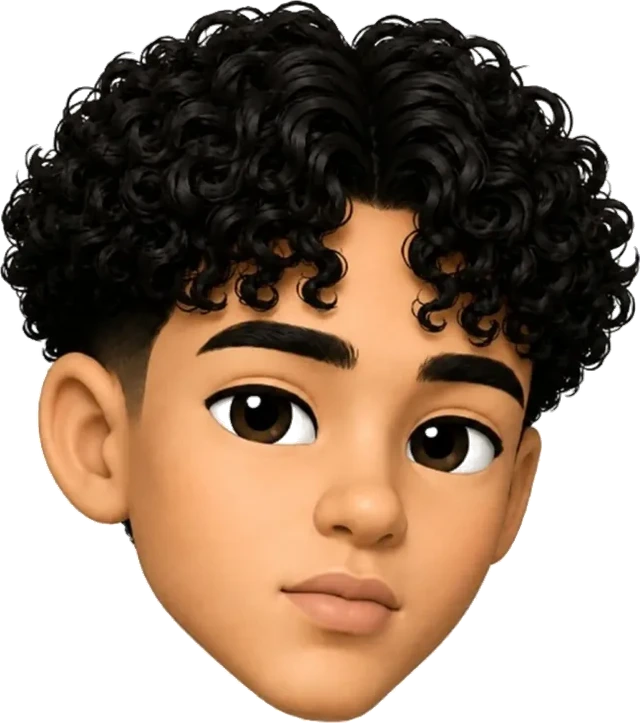
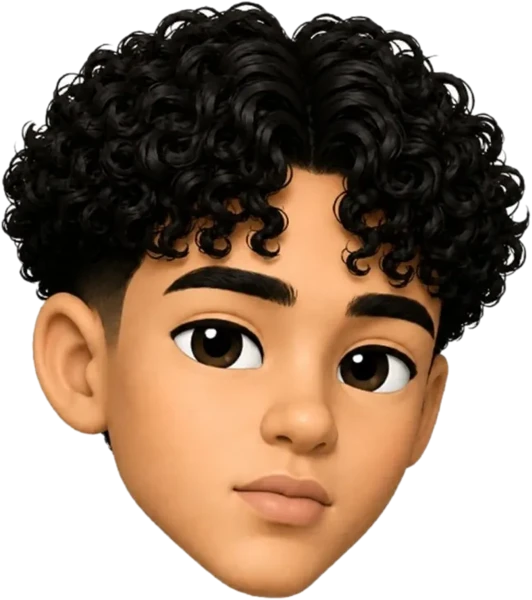
Polish: a quieter section rail, cleaner pipes, his face without a frame in the Venn
- Rail: no dash lines; the current section is inked with the pipes' orange
  ball and the rail steps aside once the footer card arrives, instead of
  running over it.
- Pipes: the right pipe drops the collars that joined onto nothing, and both
  now run on into the footer card instead of fading out under its white wash.
- Venn: the centre is a cutout of his face (public/design/jawad-cut.webp),
  not the face in a white square tile.
- Projects: the Ignaru shot anchors to its left so the headline is not cut.

diff --git a/src/app/globals.css b/src/app/globals.css
@@ -700,44 +700,45 @@ html.has-cursor * { cursor: none !important; }
 /* ── The section rail ─────────────────────────────────────────────────────
    Wide screens leave two hundred-odd pixels of empty ground either side of
    the column. This puts the page's own table of contents in the left of it:
-   a tick per section that lengthens and inks up as you reach it, so the
-   margin says where you are rather than sitting there being empty.
+   the section names in grey, the one you are in inked up with the pipes'
+   orange ball beside it. No rules or ticks: the names line up on their own.
 
    It is anchored to the column rather than to the viewport edge, so the gap
    between rail and text is the same at 1280 as at 2560 and the reading
    column stays the thing the eye lands on. */
+.rail { transition: opacity 0.35s var(--ease), translate 0.35s var(--ease); }
+.rail[data-away] { opacity: 0; translate: -8px 0; pointer-events: none; }
 .rail-item {
-  display: flex;
+  position: relative;
+  display: block;
   width: fit-content;
-  align-items: center;
-  gap: 0.65rem;
-  padding: 0.28rem 0;
-  color: var(--muted-foreground);
+  padding: 0.3rem 0 0.3rem 1.1rem;
+  color: color-mix(in srgb, var(--ink) 38%, transparent);
   font-size: 0.75rem;
+  font-weight: 500;
   line-height: 1.2;
+  letter-spacing: -0.005em;
   text-decoration: none;
-  transition: color 0.25s var(--ease);
+  transition: color 0.25s var(--ease), translate 0.3s var(--ease);
 }
-.rail-tick {
-  flex: none;
-  width: 14px;
-  height: 1px;
-  background: currentColor;
-  transition: width 0.3s var(--ease);
+.rail-ball {
+  position: absolute;
+  left: 0;
+  top: 50%;
+  width: 8px;
+  height: 8px;
+  margin-top: -4px;
+  opacity: 0;
+  scale: 0.4;
+  transition: opacity 0.25s var(--ease), scale 0.35s var(--ease);
 }
-.rail-item:hover,
-.rail-item[aria-current="true"] {
-  color: var(--foreground);
-}
-.rail-item[aria-current="true"] .rail-tick { width: 30px; }
-.rail-item:focus-visible {
-  outline: none;
-  color: var(--foreground);
-}
-.rail-item:focus-visible .rail-tick { width: 30px; }
+.rail-item:hover { color: var(--ink); }
+.rail-item[aria-current="true"] { color: var(--ink); font-weight: 700; translate: 2px 0; }
+.rail-item[aria-current="true"] .rail-ball { opacity: 1; scale: 1; }
+.rail-item:focus-visible { outline: none; color: var(--ink); text-decoration: underline; text-underline-offset: 3px; }
 
 @media (prefers-reduced-motion: reduce) {
-  .rail-item, .rail-tick { transition: none; }
+  .rail, .rail-item, .rail-ball { transition: none; }
 }
 
 /* ── Grid tables ──────────────────────────────────────────────────────────
@@ -1596,10 +1597,12 @@ body { font-family: var(--font); background: var(--paper); color: var(--ink); }
 .rp-hl-logo[style] { padding: 0; }
 
 /* ── The side pipes ── */
-.pipes { position: absolute; inset: 0; z-index: 1; pointer-events: none; overflow: hidden; }
+.pipes { position: absolute; inset: 0; z-index: 2; pointer-events: none; overflow: hidden; }
 main, .foot { position: relative; }
 .sec-obj, .else-sum .obj { position: relative; z-index: 2; }
 .foot-card { z-index: 3; }
+/* the footer's white fade sits under the pipes, so they run on into the card */
+.foot-field::before { z-index: 1; }
 .nv { z-index: 60; }
 
 .gp { --w: var(--gp-w, 0px); position: absolute; inset: 0; width: 100%; height: 100%; overflow: visible; pointer-events: none; filter: var(--ico-lift); }
@@ -1622,11 +1625,11 @@ main, .foot { position: relative; }
 .venn-disc { background: color-mix(in srgb, var(--ink) 4.5%, transparent); transition: background-color 0.3s var(--ease); }
 .venn-label { display: inline-flex; flex-direction: column; align-items: center; gap: 0.35rem; font-size: 12px; font-weight: 700; color: var(--ink); letter-spacing: -0.01em; }
 .venn-obj { width: 1.9rem; height: 1.9rem; }
-.venn-face { width: 4.5rem; height: 4.5rem; padding: 4px; border-radius: 20px; background: var(--paper); box-shadow: var(--rim), var(--lift); }
+.venn-face { width: 4.75rem; height: auto; filter: drop-shadow(0 6px 10px rgb(0 0 0 / 0.16)) drop-shadow(0 1px 2px rgb(0 0 0 / 0.12)); }
 @media (min-width: 640px) {
   .venn-label { font-size: 16px; }
   .venn-obj { width: 2.5rem; height: 2.5rem; }
-  .venn-face { width: 6.5rem; height: 6.5rem; border-radius: 24px; }
+  .venn-face { width: 7rem; }
 }
 
 /* the footer's face beside the name */

diff --git a/src/components/Rail.tsx b/src/components/Rail.tsx
@@ -4,8 +4,10 @@
 //
 // Past about 1280px the column leaves two hundred-odd pixels of empty ground
 // on either side, and the page's own structure is the one thing that space
-// can carry without competing with the reading column: a tick per section,
-// the one you are in lengthened and inked up. It is the header's Page menu
+// can carry without competing with the reading column: the section names in
+// a quiet grey, the one you are in inked up with the pipes' orange ball
+// beside it. It steps aside once the footer card arrives, which has its own
+// copy of these links. It is the header's Page menu
 // laid out vertically, so it adds a way to move around rather than a new
 // thing to read.
 //
@@ -27,6 +29,7 @@ const SECTIONS = [
 
 export function Rail() {
   const [here, setHere] = useState<string | null>(null);
+  const [away, setAway] = useState(false);
 
   useEffect(() => {
     const nodes = SECTIONS.map((s) => document.getElementById(s.id)).filter(
@@ -46,6 +49,8 @@ export function Rail() {
         if (n.getBoundingClientRect().top <= line) found = n.id;
       }
       setHere(found);
+      const card = document.querySelector(".foot-card");
+      setAway(Boolean(card && card.getBoundingClientRect().top < window.innerHeight * 0.75));
     };
 
     pick();
@@ -60,7 +65,8 @@ export function Rail() {
   return (
     <nav
       aria-label="Sections"
-      className="fixed top-1/2 z-40 hidden -translate-y-1/2 xl:block"
+      className="rail fixed top-1/2 z-40 hidden -translate-y-1/2 xl:block"
+      data-away={away || undefined}
       style={{ insetInlineStart: "calc(50% - 380px - 15rem)", width: "10.5rem" }}
     >
       {SECTIONS.map((s) => (
@@ -70,7 +76,7 @@ export function Rail() {
           className="rail-item"
           aria-current={here === s.id ? "true" : undefined}
         >
-          <span className="rail-tick" aria-hidden="true" />
+          <img src="/obj/ball.webp" alt="" aria-hidden="true" className="rail-ball" />
           <span>{s.label}</span>
         </a>
       ))}

diff --git a/src/components/Pipes.tsx b/src/components/Pipes.tsx
@@ -4,8 +4,8 @@
 //
 // They come out from under the bar at the top and run into the footer card at
 // the bottom. The left one branches into each section's glossy object, so the
-// headings read as stations on one line; the right one carries a collar at
-// the same heights, so the two sides answer each other. An orange ball rides
+// headings read as stations on one line; the right one runs clean, since a
+// collar there would join onto nothing. An orange ball rides
 // inside each, level with the middle of the screen, so it travels down the
 // page with the reader.
 //
@@ -60,7 +60,6 @@ export function Pipes() {
       );
       let dl = `M${xl} ${top}V${bottom}`;
       const jl: Joint[] = [];
-      const jr: Joint[] = [];
       for (const o of objs) {
         const r = o.getBoundingClientRect();
         const y = Math.round((r.top + r.height / 2 - box.top) * 10) / 10;
@@ -68,10 +67,9 @@ export function Pipes() {
         // a branch from the pipe into the object, tucked under it
         dl += `M${xl} ${y}H${x}`;
         jl.push({ x: xl, y, a: 0 }, { x: r.left - box.left - W * 0.3, y, a: 0 });
-        jr.push({ x: xr, y, a: 90 });
       }
       drawPipe(left, { d: dl, w: W, joints: jl, width, height });
-      drawPipe(right, { d: `M${xr} ${top}V${bottom}`, w: W, joints: jr, width, height });
+      drawPipe(right, { d: `M${xr} ${top}V${bottom}`, w: W, joints: [], width, height });
       balls[0].dataset.x = `${xl}`;
       balls[1].dataset.x = `${xr}`;
       cur = -1;

diff --git a/src/app/page.tsx b/src/app/page.tsx
@@ -313,6 +313,7 @@ function Card({ item, index, wide = false }: { item: Item; index: number; wide?:
             width={1200}
             height={630}
             className={`proj-shot w-full object-cover object-top ${wide ? "h-52 sm:h-72" : "h-48 sm:h-52"}`}
+            style={item.shotPos ? { objectPosition: item.shotPos } : undefined}
           />
         )}
       </div>
@@ -390,9 +391,14 @@ function Venn() {
           {label}
         </span>
       ))}
-      <span className="venn-face absolute left-1/2 top-1/2 -translate-x-1/2 -translate-y-1/2">
-        <Image src={IDENTITY.avatar} alt="" width={200} height={200} className="size-full rounded-[16px] object-cover" />
-      </span>
+      {/* just him, cut out of his tile, so the centre reads as a face and not a box */}
+      <Image
+        src="/design/jawad-cut.webp"
+        alt=""
+        width={266}
+        height={300}
+        className="venn-face absolute left-1/2 top-1/2 -translate-x-1/2 -translate-y-1/2"
+      />
     </div>
   );
 }

diff --git a/src/lib/profile.ts b/src/lib/profile.ts
@@ -110,6 +110,8 @@ export type Item = {
   emoji?: string;
   /** Screenshot for the hover card and the project grid, under /public. */
   shot?: string;
+  /** where to anchor a shot cropped into its card, when the centre would cut the headline */
+  shotPos?: string;
   /** Shown in the hover card's footer, so it says where the link goes. */
   domain?: string;
   role: string;
@@ -214,6 +216,7 @@ export const NOW: Item[] = [
     href: "https://ignaru.com",
     logo: "/logos/ignaru.png",
     shot: "/design/ignaru.webp",
+    shotPos: "left top",
     domain: "ignaru.com",
     role: "Founder",
     roleNote: "side project",
